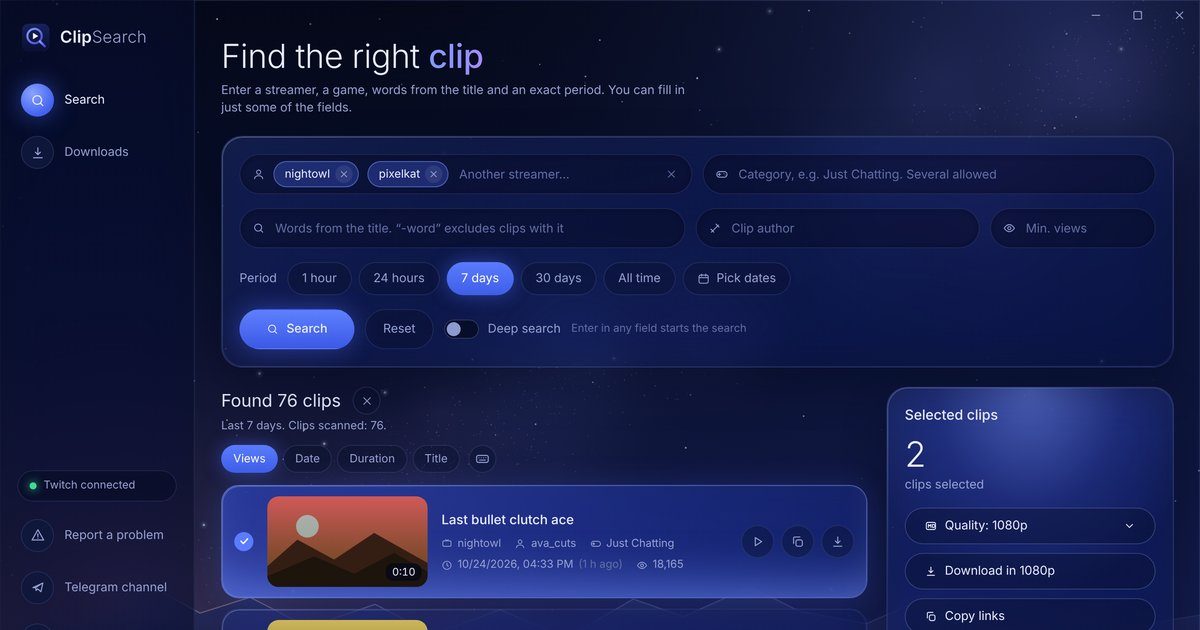
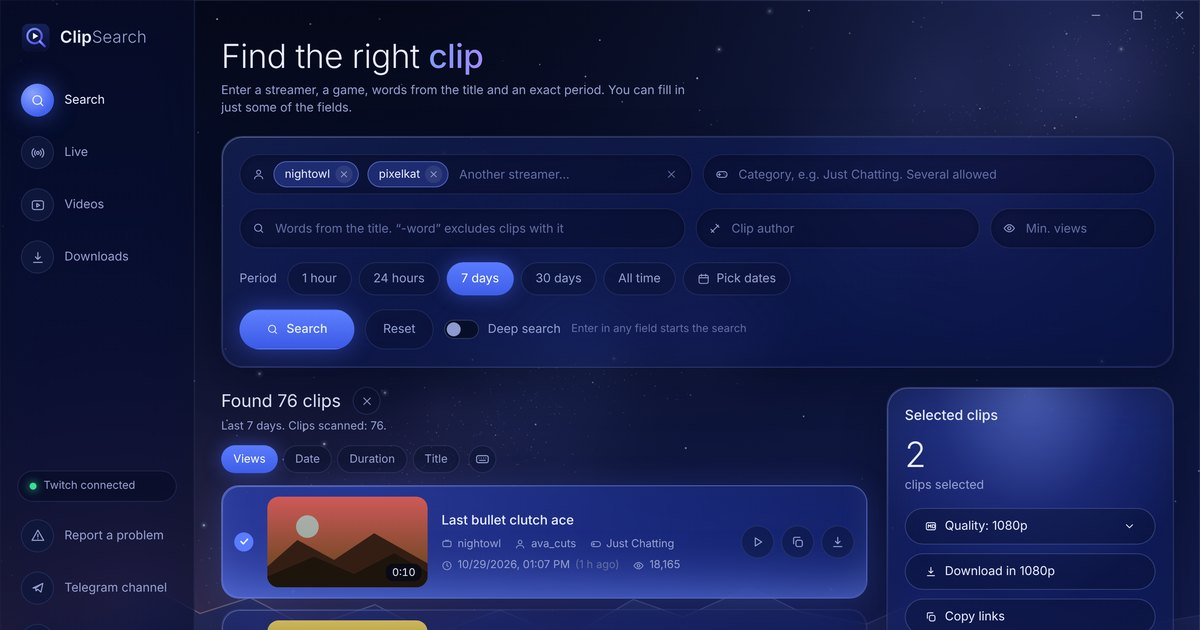
Website: live clips, broadcast videos, new screenshots

diff --git a/site/index.html b/site/index.html
@@ -13,7 +13,7 @@
 <meta property="og:title" content="ClipSearch — поиск и скачивание клипов Twitch">
 <meta property="og:description" content="Найдите клип Twitch за минуту и скачайте в 1080p. Бесплатно, без входа.">
 <meta property="og:url" content="https://clip-search.com/">
-<meta property="og:image" content="https://clip-search.com/og.jpg?v=2">
+<meta property="og:image" content="https://clip-search.com/og.jpg?v=3">
 <meta name="twitter:card" content="summary_large_image">
 <meta name="theme-color" content="#070b1f">
 <link rel="icon" href="logo.svg" type="image/svg+xml">
@@ -482,7 +482,7 @@ footer a { color: var(--muted); }
     </div>
     <div class="stage">
       <div class="win" id="win">
-        <img src="shot.webp?v=2" alt="Окно ClipSearch: найдено 76 клипов у двух стримеров за 7 дней, два клипа выбраны для скачивания в 1080p" width="1600" height="1019" loading="lazy">
+        <img src="shot.webp?v=3" alt="Окно ClipSearch: найдено 76 клипов у двух стримеров за 7 дней, два клипа выбраны для скачивания в 1080p" width="1600" height="1019" loading="lazy">
         <div class="shine"></div>
       </div>
     </div>
@@ -506,6 +506,18 @@ footer a { color: var(--muted); }
       <p>Поиск по одному стримеру, словам, автору и просмотрам работает прямо на этом сайте. Всё, что отмечено замком, есть в приложении.</p>
     </div>
     <div class="feats">
+      <article class="feat glass">
+        <span class="ic"><svg class="i" viewBox="0 0 24 24"><circle cx="12" cy="12" r="2.2"/><path d="M8.1 8.1a5.5 5.5 0 0 0 0 7.8M15.9 8.1a5.5 5.5 0 0 1 0 7.8M5.3 5.3a9.5 9.5 0 0 0 0 13.4M18.7 5.3a9.5 9.5 0 0 1 0 13.4"/></svg></span>
+        <span class="only"><svg class="lk"><use href="#lock"/></svg>Только в приложении</span>
+        <h3>Клипы из эфира</h3>
+        <p>Приложение держит в памяти последние минуты трансляции вместе со звуком — даже когда играет музыка. Случился момент — одна кнопка, и клип готов.</p>
+      </article>
+      <article class="feat glass">
+        <span class="ic"><svg class="i" viewBox="0 0 24 24"><rect x="3" y="5" width="18" height="14" rx="3"/><path d="m10.2 9.2 4.6 2.8-4.6 2.8z"/></svg></span>
+        <span class="only"><svg class="lk"><use href="#lock"/></svg>Только в приложении</span>
+        <h3>Записи трансляций</h3>
+        <p>Скачайте запись эфира целиком или вырежьте нужный кусок — даже у эфира, который ещё идёт. Есть 1080p, 720p, 480p и только звук.</p>
+      </article>
       <article class="feat glass">
         <span class="ic"><svg class="i" viewBox="0 0 24 24"><circle cx="9" cy="8" r="3.2"/><path d="M3.5 19c.6-3.2 2.8-5 5.5-5s4.9 1.8 5.5 5"/><circle cx="17" cy="9" r="2.4"/><path d="M16 14.2c2.4.1 4 1.6 4.5 4.3"/></svg></span>
         <span class="only"><svg class="lk"><use href="#lock"/></svg>Только в приложении</span>
@@ -614,7 +626,7 @@ footer a { color: var(--muted); }
     </div>
     <div class="log glass">
       <div class="ver"><b>1.1</b><span>24 октября 2026</span><span class="now">Текущая</span></div>
-      <div><ul><li>ClipSearch для macOS: Apple Silicon (M1 и новее) и Intel, macOS 11 и новее.</li><li>Установщик для Windows ставит именно ту версию, которую вы скачали.</li><li>Мелкие исправления.</li></ul></div>
+      <div><ul><li>Клипы из эфира: приложение держит в памяти последние минуты трансляции вместе со звуком — сохраняйте момент одной кнопкой.</li><li>Записи трансляций: скачивайте их целиком или вырезайте нужный кусок, в том числе у эфира, который ещё идёт.</li><li>ClipSearch для macOS: Apple Silicon (M1 и новее) и Intel, macOS 11 и новее.</li><li>Установщик для Windows ставит именно ту версию, которую вы скачали.</li></ul></div>
       <div class="ver"><b>1.0</b><span>24 октября 2026</span></div>
       <div><ul><li>Первый публичный выпуск ClipSearch.</li><li>Поиск по стримерам, категориям, авторам и словам из названия за любой период, график «Когда сняты клипы».</li><li>Скачивание в 1080p, 720p или 480p, вырезание фрагмента во встроенном плеере, очередь загрузок.</li><li>Русский и английский язык интерфейса, кнопка Telegram-канала.</li><li>Обновления внутри программы.</li></ul></div>
     </div>

diff --git a/site/en/index.html b/site/en/index.html
@@ -13,7 +13,7 @@
 <meta property="og:title" content="ClipSearch — search and download Twitch clips">
 <meta property="og:description" content="Find a Twitch clip in a minute and download it in 1080p. Free, no sign-in.">
 <meta property="og:url" content="https://clip-search.com/en/">
-<meta property="og:image" content="https://clip-search.com/og-en.jpg?v=2">
+<meta property="og:image" content="https://clip-search.com/og-en.jpg?v=3">
 <meta name="twitter:card" content="summary_large_image">
 <meta name="theme-color" content="#070b1f">
 <link rel="icon" href="../logo.svg" type="image/svg+xml">
@@ -482,7 +482,7 @@ footer a { color: var(--muted); }
     </div>
     <div class="stage">
       <div class="win" id="win">
-        <img src="../shot-en.webp?v=2" alt="ClipSearch window: 76 clips found for two streamers over 7 days, two clips selected for download in 1080p" width="1600" height="1019" loading="lazy">
+        <img src="../shot-en.webp?v=3" alt="ClipSearch window: 76 clips found for two streamers over 7 days, two clips selected for download in 1080p" width="1600" height="1019" loading="lazy">
         <div class="shine"></div>
       </div>
     </div>
@@ -506,6 +506,18 @@ footer a { color: var(--muted); }
       <p>Searching by one streamer, words, author and views works right on this site. Everything marked with a lock is in the app.</p>
     </div>
     <div class="feats">
+      <article class="feat glass">
+        <span class="ic"><svg class="i" viewBox="0 0 24 24"><circle cx="12" cy="12" r="2.2"/><path d="M8.1 8.1a5.5 5.5 0 0 0 0 7.8M15.9 8.1a5.5 5.5 0 0 1 0 7.8M5.3 5.3a9.5 9.5 0 0 0 0 13.4M18.7 5.3a9.5 9.5 0 0 1 0 13.4"/></svg></span>
+        <span class="only"><svg class="lk"><use href="#lock"/></svg>App only</span>
+        <h3>Live clips</h3>
+        <p>The app keeps the last minutes of a broadcast in memory with the sound — even when music is playing. When the moment happens, one button and the clip is ready.</p>
+      </article>
+      <article class="feat glass">
+        <span class="ic"><svg class="i" viewBox="0 0 24 24"><rect x="3" y="5" width="18" height="14" rx="3"/><path d="m10.2 9.2 4.6 2.8-4.6 2.8z"/></svg></span>
+        <span class="only"><svg class="lk"><use href="#lock"/></svg>App only</span>
+        <h3>Broadcast videos</h3>
+        <p>Download a whole broadcast or cut out the part you need — even from a stream that is still live. 1080p, 720p, 480p or audio only.</p>
+      </article>
       <article class="feat glass">
         <span class="ic"><svg class="i" viewBox="0 0 24 24"><circle cx="9" cy="8" r="3.2"/><path d="M3.5 19c.6-3.2 2.8-5 5.5-5s4.9 1.8 5.5 5"/><circle cx="17" cy="9" r="2.4"/><path d="M16 14.2c2.4.1 4 1.6 4.5 4.3"/></svg></span>
         <span class="only"><svg class="lk"><use href="#lock"/></svg>App only</span>
@@ -614,7 +626,7 @@ footer a { color: var(--muted); }
     </div>
     <div class="log glass">
       <div class="ver"><b>1.1</b><span>October 24, 2026</span><span class="now">Current</span></div>
-      <div><ul><li>ClipSearch for macOS: Apple Silicon (M1 and newer) and Intel, macOS 11 or later.</li><li>The Windows installer now installs exactly the version you downloaded.</li><li>Minor fixes.</li></ul></div>
+      <div><ul><li>Live clips: the app keeps the last minutes of a broadcast in memory with the sound — save the moment with one button.</li><li>Broadcast videos: download them whole or cut out the part you need, even from a stream that is still live.</li><li>ClipSearch for macOS: Apple Silicon (M1 and newer) and Intel, macOS 11 or later.</li><li>The Windows installer now installs exactly the version you downloaded.</li></ul></div>
       <div class="ver"><b>1.0</b><span>October 24, 2026</span></div>
       <div><ul><li>First public release of ClipSearch.</li><li>Search by streamers, categories, authors and title words over any period, plus the “When clips were made” chart.</li><li>Download in 1080p, 720p or 480p, trim clips in the built-in player, download queue.</li><li>English and Russian interface, Telegram channel button.</li><li>In-app updates.</li></ul></div>
     </div>
